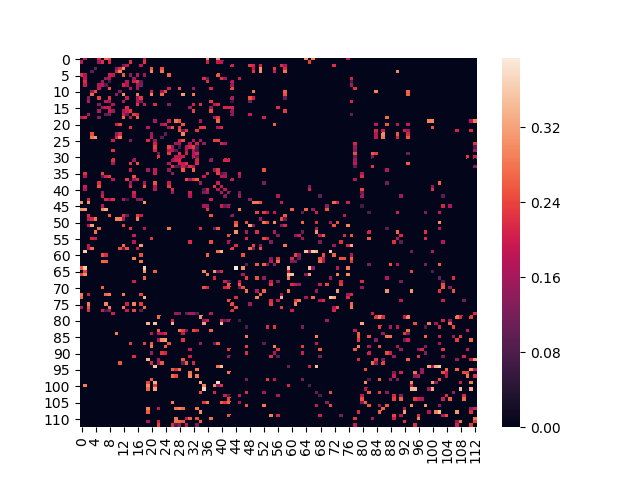
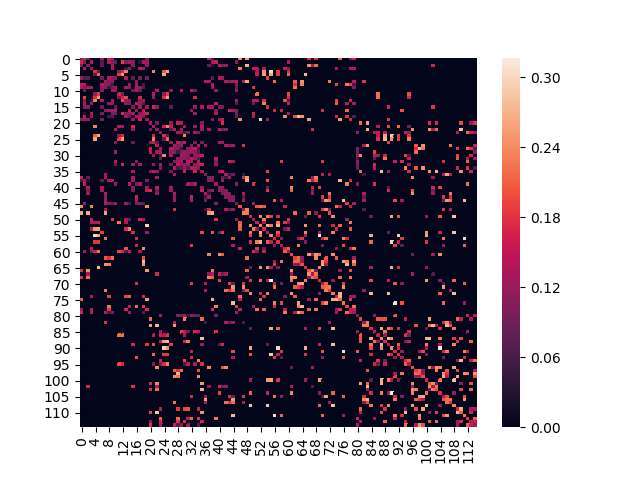
updated neuro_format and make_bids to accommodate full dataset, including fmri data; updated adj_mtrx.png to show self-loops

diff --git a/make_bids.py b/make_bids.py
@@ -2,13 +2,16 @@ import os
 import sys
 import json
 import subprocess
+import pandas as pd
+import datetime
 
 """
 SECOND FILE IN PIPELINE (following neuro_format.py)
 
-Changes file structure from to be compatible with BIDS format;
+Converts raw DICOM image collections to NIfTI file format;
+changes file structure from to be compatible with BIDS format;
 image sources other than PPMI will probably need changes;
-BIDS is the expected format for libraries such as dcm2niix and is quite readable
+BIDS is the expected format for many libraries and is intuitively structured
 
 To run, requires argument:
 
@@ -17,90 +20,174 @@ To run, requires argument:
 Next file to run is `automate_preproc.py`
 """
 
-def re_format(maindir):
-    main_dir = "./" + maindir + "/"
+def re_run(files):
+    """ Checks for duplicate timestamps """
+    for f in range(len(files)):
+        i=0
+        for ff in range(len(files)):
+            if files[f].split('/')[2]==files[ff].split('/')[2] and \
+                    files[f].split('/')[4]==files[ff].split('/')[4] and \
+                    files[f].split('/')[3]!=files[ff].split('/')[3]:
+                i+=1
+                newf = files[ff].split('/')
+                nf4_s = int(newf[4].split('_')[-1].split('.')[0])+1
+                nf4_new = '_'.join(newf[4].split('_')[:-1])+str(nf4_s)+'.0'
+                newf[4]=f'{newf[4]}'
+                os.mkdir('/'.join(newf[:5]))
+                newf='/'.join(newf)
+                os.rename(files[ff],os.path.join(newf))
+                files[ff]=newf
+    return files
+
+def bidsify(files,runsdict,modality_fn,modality_dn,modality_src,srcdata,derivs,sub,maindir,procdiffs=None):
+    if not os.path.exists(os.path.join(srcdata,sub)):
+        os.mkdir(os.path.join(srcdata,sub))
+    if not os.path.exists(os.path.join(srcdata,sub,modality_src)):
+        os.mkdir(os.path.join(srcdata,sub,modality_src))
+    for f in files:
+        run = [k+1 for k in runsdict.keys() if runsdict[k]==f.split('/')[4].split('.')[0]][0]
+        if int(run)<=9:
+            run=f'0{run}'
+        else:
+            run=str(run)
+        newfn = os.path.join(sub,f'_run-{run}_{modality_fn}.nii')
+        newdir = os.path.join(maindir,sub,modality_dn)
+        cmd = "dcm2niix -b y -o {} -f {} {}".format(newdir,newfn,f)
+        process = subprocess.Popen(cmd.split(), stdout=subprocess.PIPE)
+        output, error = process.communicate()
+        os.rename(f,os.path.join(srcdata,sub,modality_src,f'{sub}_run-{run}/'))
+    if modality_fn=='dwi':
+        if not os.path.exists(os.path.join(derivs,sub)):
+            os.mkdir(os.path.join(derivs,sub))
+            os.mkdir(os.path.join(derivs,sub,'dwi'))
+        for pd in procdiffs:
+            os.rename(pd,os.path.join(derivs,sub,'dwi',f'{sub}_run-{run}_processed_dwi.nii'))
+    if modality_dn=='func': return newdir
+    else: return
+
+def re_format(maindir,metadata):
+    main_dir = os.path.join('.',maindir)
     subj_dirs = os.listdir(main_dir)
+    metadata=os.path.join(main_dir,metadata)
 
     jsondict = {
         "Name":maindir,
         "BIDSVersion": "1.0.0rc1"
     }
 
-    with open(main_dir+'dataset_description.json', 'w') as outfile:
+    metadf = pd.read_csv(metadata)
+    metadf["Subject_Num"]=""
+
+    with open(os.path.join(main_dir,'dataset_description.json'), 'w') as outfile:
         json.dump(jsondict, outfile)
 
-    srcdata = main_dir+'sourcedata/'
+    srcdata = os.path.join(main_dir,'sourcedata/')
     if not os.path.exists(srcdata):
         os.mkdir(srcdata)
-    derivs = main_dir+'derivatives/'
+    derivs = os.path.join(main_dir,'derivatives')
     if not os.path.exists(derivs):
         os.mkdir(derivs)
 
     sub=0
     for subj in subj_dirs:
         print(f"File structure for {subj}")
-        subject = main_dir+subj
+        subject = os.path.join(main_dir,subj)
         if os.path.isdir(subject):
             run=0
             sub+=1
             if sub<=9: sub_name = "sub-0{}".format(sub)
             else: sub_name = "sub-{}".format(sub)
             print("\tOld ID: {} --> NewID: {}\n".format(subj, sub_name))
-            with open(os.path.join(main_dir,'ID_mapping.txt')) as ids:
-                ids.write("Old ID: {} --> NewID: {}\n".format(subj, sub_name))
-            if not os.path.exists(main_dir+sub_name):
-                os.mkdir(main_dir+sub_name)
-                os.mkdir(main_dir+sub_name+'/anat')
-                os.mkdir(main_dir+sub_name+'/dwi')
+            metadf.loc[metadf.Subject.astype(int) == int(subj), 'Subject_Num'] = sub_name
 
-            non_nii = {
-                "anat": list([os.path.join(roota,filenamea) for roota,dirnamesa,filenamesa in os.walk(subject) if len(roota.split('/'))==6 and 'T1' in roota.split('/')[3] for filenamea in filenamesa if not filenamea.endswith('.nii')]),
-                "fa"  : list(os.path.join(rootf,filenamef) for rootf,dirnamesf,filenamesf in os.walk(subject) if len(rootf.split('/'))==6 and 'FA' in rootf.split('/')[3] for filenamef in filenamesf if not filenamef.endswith('.nii'))
-            }
-            if non_nii["anat"]: print("WARNING: some T1 file(s) not .nii format in {} - {}".format(subj, non_nii['anat']))
-            if non_nii["fa"]: print("WARNING: some FA file(s) not .nii format in {} - {}".format(subj, non_nii['fa']))
+            if not os.path.exists(os.path.join(main_dir,sub_name)):
+                os.mkdir(os.path.join(main_dir,sub_name))
+                os.mkdir(os.path.join(main_dir,sub_name,'anat'))
+                os.mkdir(os.path.join(main_dir,sub_name,'dwi'))
+                os.mkdir(os.path.join(main_dir,sub_name,'func'))
 
-            anats = list([os.path.join(roota,filenamea) for roota,dirnamesa,filenamesa in os.walk(subject) if len(roota.split('/'))==6 and 'T1' in roota.split('/')[3] for filenamea in filenamesa if filenamea.endswith('.nii')])
-            rawdiffs = list(rootr for rootr,dirnamesr,filenamesr in os.walk(subject) if len(rootr.split('/'))==6 and 'DTI' in rootr.split('/')[3])
-            fadiffs = list(os.path.join(rootf,filenamef) for rootf,dirnamesf,filenamesf in os.walk(subject) if len(rootf.split('/'))==6 and 'FA' in rootf.split('/')[3] for filenamef in filenamesf if filenamef.endswith('.nii'))
-            for anat in anats:
-                run +=1
-                newfn = sub_name+'_run-0{}_T1w.nii'.format(run)
-                anatroot = '/'.join(anat.split('/')[:-1])
-                os.rename(anat, os.path.join(anatroot,newfn))
-                os.rename(os.path.join(anatroot, newfn), os.path.join(main_dir,sub_name,'anat',newfn))
-            run=0
-            for rawdiff in rawdiffs:
-                run+=1
-                newfn = sub_name+'_run-0{}_dwi'.format(run)
-                newdir = os.path.join(main_dir,sub_name,'dwi/')
-                cmd = "dcm2niix -b y -o {} -f {} {}".format(newdir,newfn,rawdiff)
-                process = subprocess.Popen(cmd.split(), stdout=subprocess.PIPE)
-                output, error = process.communicate()
-                if not os.path.exists(srcdata+sub_name):
-                    os.mkdir(srcdata+sub_name)
-                os.rename(rawdiff,srcdata+sub_name+'/rawdcm_run-0{}/'.format(run))
-            run=0
-            for fadiff in fadiffs:
-                run+=1
-                if not os.path.exists(derivs+sub_name):
-                    os.mkdir(derivs+sub_name)
-                    os.mkdir(derivs+sub_name+'/fa/')
-                newfn = sub_name+'_run-0{}_dwi.nii'.format(run)
-                faroot = '/'.join(fadiff.split('/')[:-1])
-                os.rename(fadiff, os.path.join(faroot,newfn))
-                os.rename(os.path.join(faroot, newfn), os.path.join(derivs,sub_name,'fa',newfn))
 
-    print("... removing unneeded files ... \n")
-    while len(os.listdir(main_dir)) > sub+4:
-        for root, dirnames, filenames in os.walk(main_dir):
-            if os.path.isfile(os.path.join(root,'.DS_Store')):
-                os.remove(os.path.join(root,'.DS_Store'))
-            if os.path.isdir(root):
-                if not os.listdir(root):
-                    os.rmdir(root)
+            # non_nii = {
+            #     "anat": list([os.path.join(roota,filenamea) for roota,dirnamesa,filenamesa in os.walk(subject) if len(roota.split('/'))==6 and 'T1' in roota.split('/')[3] for filenamea in filenamesa if not filenamea.endswith('.nii')]),
+            #     "fa"  : list(os.path.join(rootf,filenamef) for rootf,dirnamesf,filenamesf in os.walk(subject) if len(rootf.split('/'))==6 and 'FA' in rootf.split('/')[3] for filenamef in filenamesf if not filenamef.endswith('.nii'))
+            # }
+            # if non_nii["anat"]: print("WARNING: some T1 file(s) not .nii format in {} - {}".format(subj, non_nii['anat']))
+            # if non_nii["fa"]: print("WARNING: some FA file(s) not .nii format in {} - {}".format(subj, non_nii['fa']))
+
+            # Compile lists of all filepaths to images of a given modality
+            # anats = list([os.path.join(roota,filenamea) \
+            #           for roota,dirnamesa,filenamesa in os.walk(subject) \
+            #           if len(roota.split('/'))==6 and 'T1' in \
+            #           roota.split('/')[3] for filenamea in filenamesa \
+            #           if filenamea.endswith('.nii')])
+            rawanats = re_run(list(roota for roota,dirnamesa,filenamesa in \
+                        os.walk(subject) if len(roota.split('/'))==6 and 'MPRAGE' in \
+                        roota.split('/')[3].upper()))
+            rawdiffs = re_run(list(rootr for rootr,dirnamesr,filenamesr in \
+                        os.walk(subject) if len(rootr.split('/'))==6 and 'DTI'    in \
+                        rootr.split('/')[3].upper()))
+            # fadiffs = list(os.path.join(rootf,filenamef) for rootf,dirnamesf,filenamesf in os.walk(subject) if len(rootf.split('/'))==6 and 'FA' in rootf.split('/')[3] for filenamef in filenamesf if filenamef.endswith('.nii'))
+            # diffs = list([os.path.join(roota,filenamea) for roota,dirnamesa,filenamesa in os.walk(subject) if len(roota.split('/'))==6 and 'DWI' in roota.split('/')[3] for filenamea in filenamesa if filenamea.endswith('.nii')])
+            rawfuncs = re_run(list(rootf for rootf,dirnamesf,filenamesf in \
+                        os.walk(subject) if len(rootf.split('/'))==6 and 'EP2D'   in \
+                        rootf.split('/')[3].upper()))
+            procdiffs = re_run(list(os.path.join(rootr,filenamer) \
+                        for rootr,dirnamesr,filenamesr in \
+                        os.walk(subject) if len(rootr.split('/'))==6 and 'DWI'
+                        in rootr.split('/')[3].upper() for filenamer in filenamesr if filenamer.endswith('.nii')))
+
+            # Genreate mapping from image timestamps to integer 'run' number
+            dates=set([d for modality in os.listdir(subject) \
+                if os.path.isdir(os.path.join(subject,modality)) \
+                for d in os.listdir(os.path.join(subject,modality)) \
+                if os.path.isdir(os.path.join(subject,modality,d))])
+            dates = [ts.split('.')[0] for ts in dates]
+            dates = [datetime.datetime.strptime(ts, "%Y-%m-%d_%H_%M_%S") for ts in dates]
+            dates.sort()
+            sorteddates = [datetime.datetime.strftime(ts, "%Y-%m-%d_%H_%M_%S") for ts in dates]
+            # print(sorteddates)
+
+            runs = dict(enumerate(sorteddates))
+            # print(runs)
+
+            # For each modality,
+            # Convert images to NIfTI and rearrange file structure
+            if len(rawanats) > 0: bidsify(rawanats,runs,'T1w',           'anat','mprage',srcdata,derivs,sub_name,main_dir)
+            if len(rawdiffs) > 0: bidsify(rawdiffs,runs,'dwi',           'dwi' ,'dti'   ,srcdata,derivs,sub_name,main_dir,procdiffs)
+            if len(rawfuncs) > 0:
+                funcdir      =    bidsify(rawfuncs,runs,'task-rest_bold','func','ep2d'  ,srcdata,derivs,sub_name,main_dir)
+
+                for jsn in os.listdir(funcdir):
+                    if jsn.endswith('json'):
+                        with open(os.path.join(funcdir,jsn),'r') as jr:
+                            jdict = json.load(jr)
+                        jdict['TaskName']='rest'
+                        with open(os.path.join(funcdir,jsn),'w') as jw:
+                            json.dump(jdict,jw)
+
+            # run=0
+            # for fadiff in fadiffs:
+            #     run+=1
+            #     if not os.path.exists(derivs+sub_name):
+            #         os.mkdir(derivs+sub_name)
+            #         os.mkdir(derivs+sub_name+'/fa/')
+            #     newfn = sub_name+'_run-0{}_dwi.nii'.format(run)
+            #     faroot = '/'.join(fadiff.split('/')[:-1])
+            #     os.rename(fadiff, os.path.join(faroot,newfn))
+            #     os.rename(os.path.join(faroot, newfn), os.path.join(derivs,sub_name,'fa',newfn))
+
+    # print("... removing unneeded files ... \n")
+    # while len(os.listdir(maindir)) > sub+4:
+    #     for root, dirnames, filenames in os.walk(main_dir):
+    #         if os.path.isfile(os.path.join(root,'.DS_Store')):
+    #             os.remove(os.path.join(root,'.DS_Store'))
+    #         if os.path.isdir(root):
+    #             if not os.listdir(root):
+    #                 os.rmdir(root)
+
+    metadf.to_csv(os.path.join(main_dir,'participants.tsv'),sep='\t')
     return
 
 if __name__=='__main__':
 
-    reformat(sys.argv[1])
+    re_format(sys.argv[1],'participants.csv')

diff --git a/neuro_format.py b/neuro_format.py
@@ -16,13 +16,23 @@ Next file to run will be   `make_bids.py`
 """
 
 def move_files(destdir,maindir):
+    """
+    Consolidates files from multi-zip download into a single directory for
+    each subject.
+    """
+
     print(f"Moving files from {maindir} and consolidating into {destdir}\n")
     if not os.path.exists(destdir):
         os.mkdir(destdir)
 
+    # Generate list of full filepaths for each image file
     fileroots = list([os.path.join(root,filename) for root,dirnames,filenames \
                         in os.walk(maindir) if len(root.split('/'))==7 \
                         for filename in filenames])
+
+    # Check if a directory already exists along the filepath to each image,
+    # so that images from the same directory are consolidated together.
+    # Otherwise, create the directory for the image in the destination dir.
     for filepath in fileroots:
         filedest = list([rootd for rootd,dirnamesd,filenamesd \
                         in os.walk(destination)])
@@ -32,10 +42,12 @@ def move_files(destdir,maindir):
                         for dest in filedest if len(dest.split('/'))>=step):
                 os.mkdir(os.path.join(destination,\
                         '/'.join(filepath.split('/')[3:step+1])))
-        os.rename(filepath, destination+'/'.join(filepath.split('/')[3:]))
+        os.rename(filepath, os.path.join(destination,'/'.join(filepath.split('/')[3:])))
     print(f'... empyting {maindir} ...\n')
-    while len(os.listdir(maindir)) > 2:
-        for root, dirnames, filenames in os.walk(main_dir):
+
+    # Empty the Downloads folder
+    while  len(list([dwnld_dir for dwnld_dir in os.listdir(maindir) if os.path.isdir(os.path.join(maindir,dwnld_dir))]))>0: #len(os.listdir(maindir)) > 2:
+        for root, dirnames, filenames in os.walk(maindir):
             if os.path.isfile(os.path.join(root,'.DS_Store')):
                 os.remove(os.path.join(root,'.DS_Store'))
             if os.path.isdir(root):
@@ -48,6 +60,6 @@ if __name__=='__main__':
 
     destination = './'+sys.argv[1]+'/' # path to destination folder
 
-    main_dir = "./JustDownloaded/"
+    main_dir = "./Downloads/"
 
     move_files(destination,main_dir)
